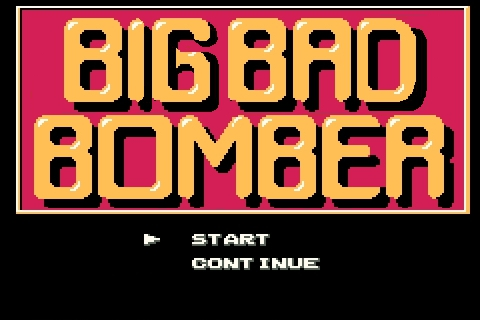
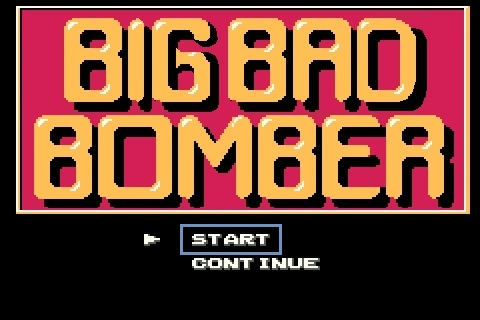
new Lobby

Changed region(s): [[0.375, 0.6875, 0.5938, 0.8125]]

diff --git a/Client/index.html b/Client/index.html
@@ -5,8 +5,12 @@
     <title>Lobby</title>
 </head>
 <body>
-
-<a href="/start">Connect to Game</a>
+<map name="menue">
+    <area shape="rect" coords="170,255,290,220" href="/start" alt="home" border="1">
+</map>
+<p>
+    <img src="../bigbadbomber.jpg" usemap="#menue" title="start">
+<!--<a href="/start">Connect to Game</a>-->
 <!--
 <script type="text/javascript">
     function Start() {
